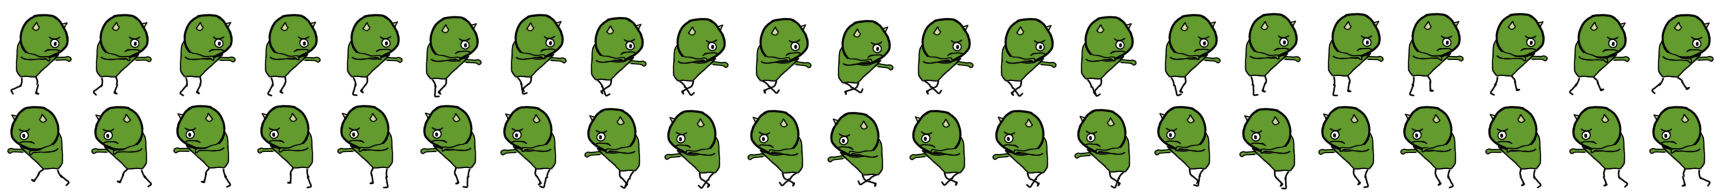
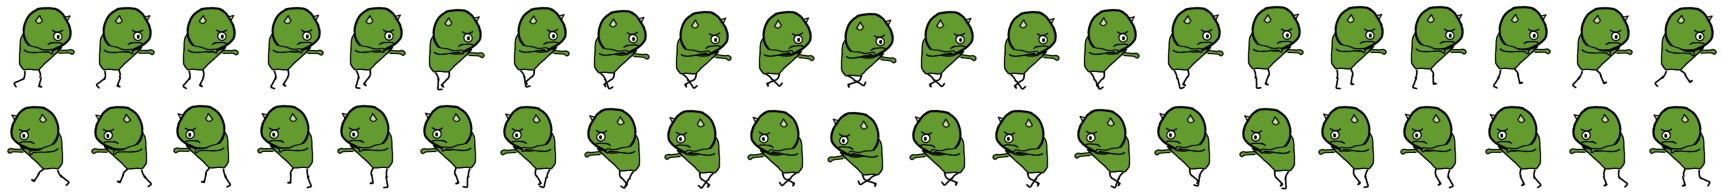
Ajout img tank (Zoom *2 d'un normal

Changed region(s): [[0.0, 0.0312, 1.0, 0.5]]

diff --git a/core/src/projetTuteure/MyGdxGame.java b/core/src/projetTuteure/MyGdxGame.java
@@ -28,13 +28,16 @@ public class MyGdxGame extends ApplicationAdapter {
 			persos = new gestionJoueurs();
 			
 			niveau = new Niveau ("map2.txt", "collision.txt", persos.getPersos(), "initEnnemi.txt", batch);
+
 	}
 
 	@Override
 	public void render () {
 		//Initialisation de la fenetre
-		Gdx.gl.glClearColor(1, 0, 0, 1);
+		Gdx.gl.glClearColor(0, 0, 0.48f, 1);
 		Gdx.gl.glClear(GL20.GL_COLOR_BUFFER_BIT);
+		
+		
 		//Affichage seulement de l'image si le perso est mort
 		if (persos.unJoueurMort())
 		{
@@ -101,6 +104,5 @@ public class MyGdxGame extends ApplicationAdapter {
 			// Supprime les projectiles sortie de l'ecran
 			niveau.gestionNiveau();
 			}
-		
 	}
 }

diff --git a/core/src/projetTuteure/Ennemi.java b/core/src/projetTuteure/Ennemi.java
@@ -51,19 +51,19 @@ public class Ennemi {
 			vitesse = 2f;
 			
 			img = new Texture("../core/assets/ennemiTank.png");
-			
-			taille = new Vector2();
-			taille.x = img.getWidth();
-			taille.y = img.getHeight();
-			
-			nbImgParAnim = 1;
+			nbImgParAnim = 21;
 			imgActuelle = 0;
 			ralentissementAnim = 1;
+			
+			taille = new Vector2();
+			taille.x = 82*2;
+			taille.y = 96*2;
 			
 			estMort = false;
 			
 			vieMax = 250;
 			vie = 200;
+
 			break;
 		case "Rapide" :
 			vitesse = 7f;
